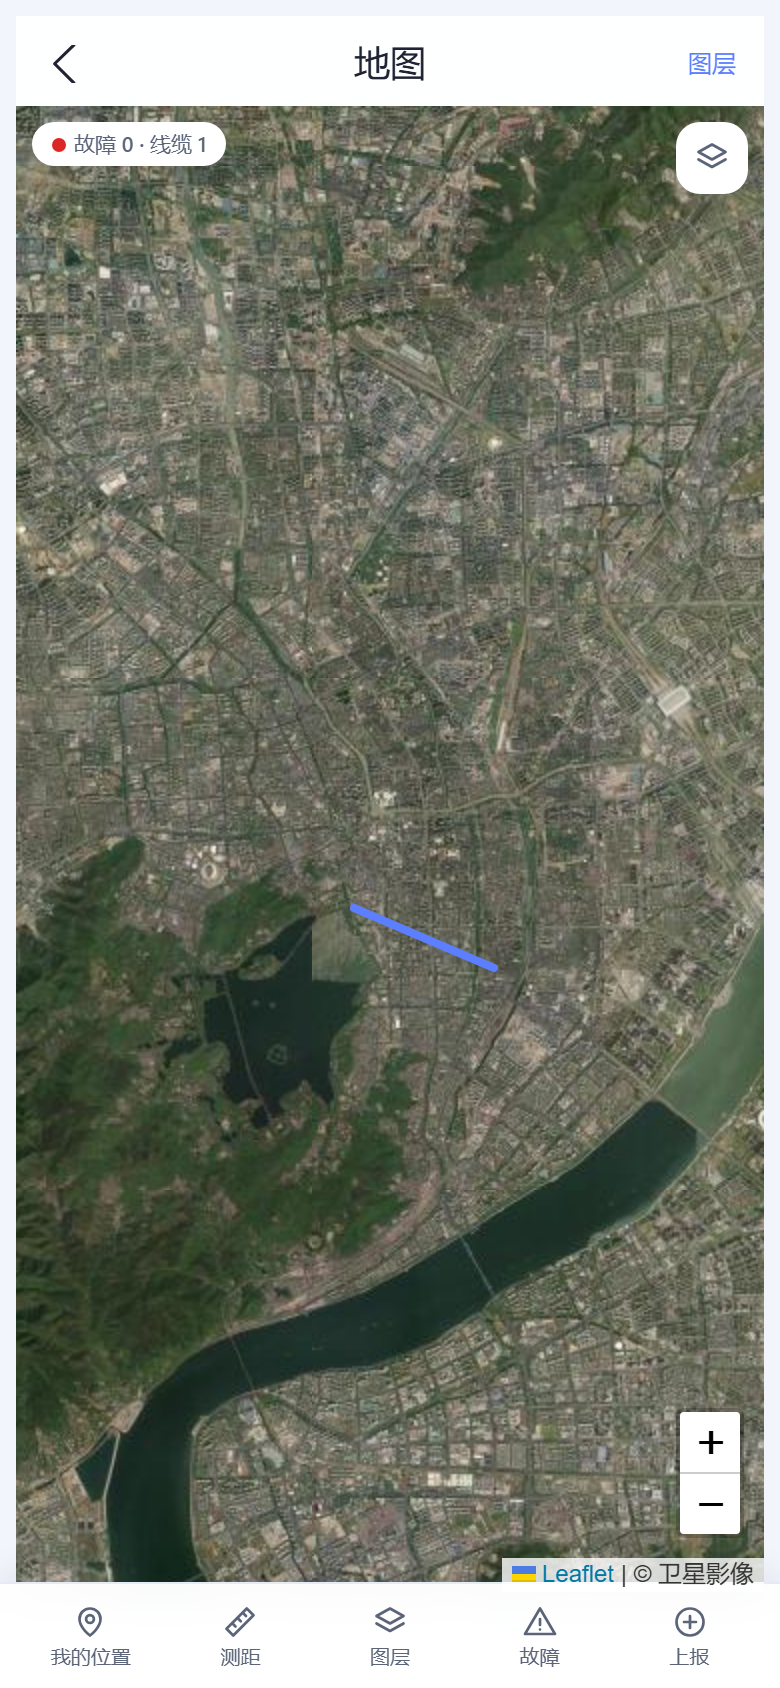
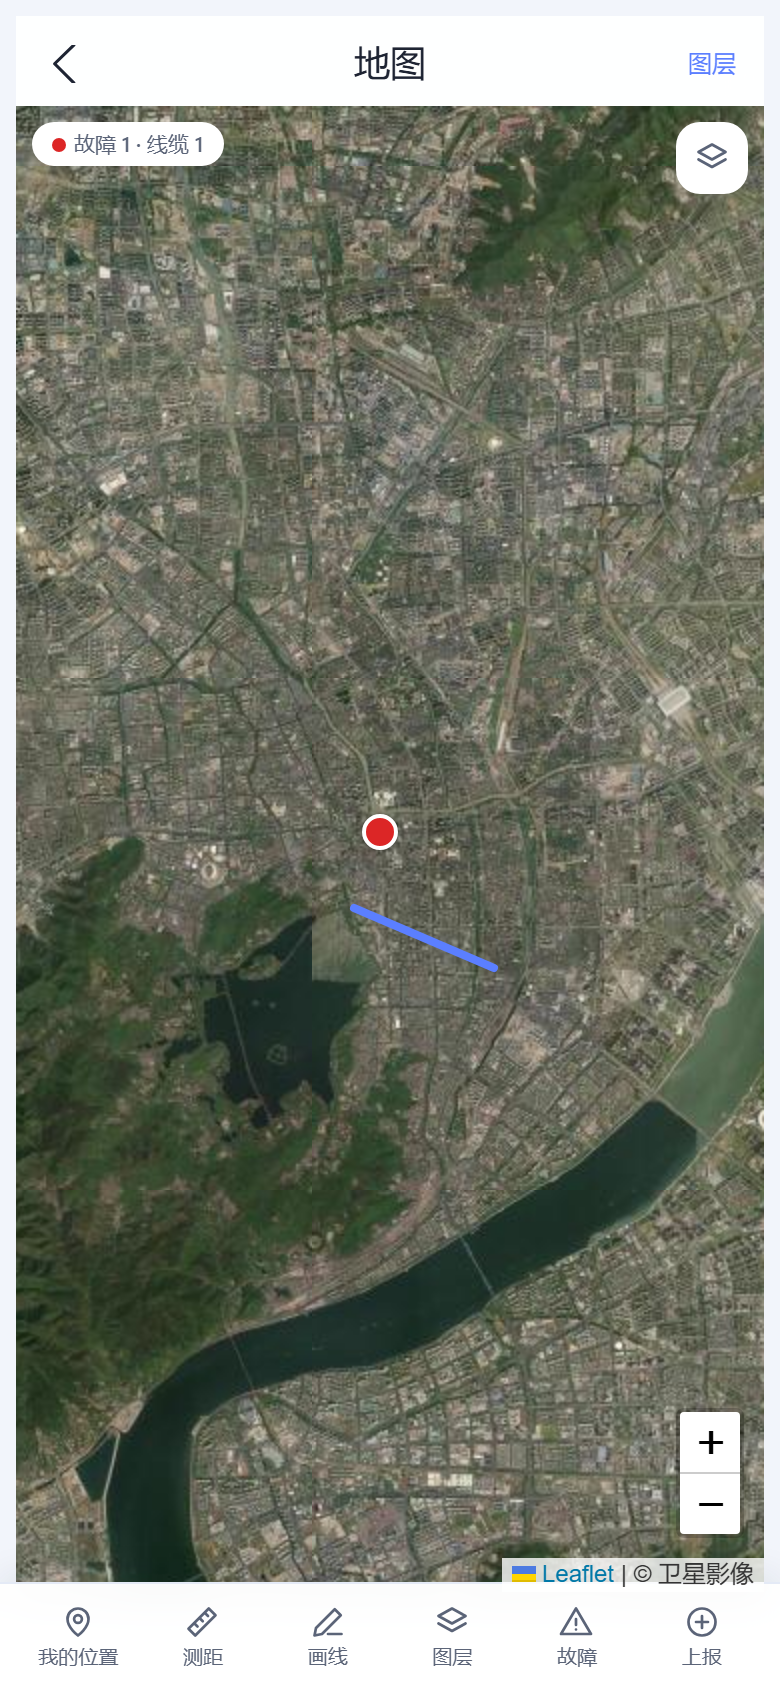
fix(map-mobile): 地图交互修复批——IP降级静默/上报选点落针回填/画线测量/Picker无反应/定位飞行17级
①去掉「浏览器定位不可用，已使用 IP 粗略定位」Toast（GPS→IP 静默降级）；
②上报故障选点重做：先收起弹层再取点（原遮罩挡地图根本点不了），点击落红色
大头针并自动回到上报面板显示已选坐标；导航「选起点」同流程（绿色针）；
③新增「画线」工具栏键：逐点成线+顶点圆点，实时总长（haversine），
撤销/清空/完成操作条，临时测量线不落库；
④测距「选择线缆」与导航「选择故障点」点击无反应根因：antd-mobile v5 Picker
不向子元素注入点击事件，补 render-prop actions.open() 并回显 value；
⑤「我的位置」setView 强跳层级改为 panTo 保持当前 zoom；
⑥故障管理「定位」与测距结果 flyTo(点, 17)。

验证：typecheck 零错误 + build 成功 + CDP 实拍六键工具栏渲染正常。

diff --git a/frontend/apps/mobile/src/modules/map/Map.tsx b/frontend/apps/mobile/src/modules/map/Map.tsx
@@ -59,6 +59,24 @@ const myLocationIcon = L.divIcon({
     "</div>",
   iconSize: [22, 22], iconAnchor: [11, 11],
 });
+/** 上报取点：红色大头针（地图选中的待上报位置）。 */
+const pickIcon = L.divIcon({
+  className: "wlt-m",
+  html: '<div style="width:16px;height:16px;background:#DC2626;border:2px solid #fff;border-radius:50% 50% 50% 0;transform:rotate(-45deg);box-shadow:0 1px 4px rgba(0,0,0,.35)"></div>',
+  iconSize: [16, 16], iconAnchor: [8, 15],
+});
+/** 导航起点：绿色大头针（与桌面端「选起点」绿色标记一致）。 */
+const startIcon = L.divIcon({
+  className: "wlt-m",
+  html: '<div style="width:16px;height:16px;background:#22C55E;border:2px solid #fff;border-radius:50% 50% 50% 0;transform:rotate(-45deg);box-shadow:0 1px 4px rgba(0,0,0,.35)"></div>',
+  iconSize: [16, 16], iconAnchor: [8, 15],
+});
+/** 画线顶点：琥珀小圆点。 */
+const vertexIcon = L.divIcon({
+  className: "wlt-m",
+  html: '<div style="width:10px;height:10px;border-radius:50%;background:#F59E0B;border:2px solid #fff;box-shadow:0 1px 3px rgba(0,0,0,.35)"></div>',
+  iconSize: [10, 10], iconAnchor: [5, 5],
+});
 
 /** 显示坐标系：手机端底图固定经后端代理（WGS84 源）→ 默认 GCJ-02 加密显示（与桌面端一致）。 */
 const DISPLAY_SPACE = resolveDisplaySpace("wgs84", null);
@@ -95,10 +113,27 @@ function disp([lat, lng]: [number, number]): [number, number] {
   return [dlat, dlng];
 }
 
-type PanelKey = "report" | "faults" | "measure" | "nav" | "layers" | null;
+/** 两 WGS84 坐标间球面距离（米，haversine）——画线测长用。 */
+function distMeters(a: [number, number], b: [number, number]): number {
+  const R = 6371000;
+  const dLat = ((b[0] - a[0]) * Math.PI) / 180;
+  const dLng = ((b[1] - a[1]) * Math.PI) / 180;
+  const la1 = (a[0] * Math.PI) / 180;
+  const la2 = (b[0] * Math.PI) / 180;
+  const h = Math.sin(dLat / 2) ** 2 + Math.cos(la1) * Math.cos(la2) * Math.sin(dLng / 2) ** 2;
+  return 2 * R * Math.asin(Math.sqrt(h));
+}
 
-/** 工具栏五键（OP Toolbar：我的位置/测距/图层/故障/上报）。location 为即时动作非面板。 */
-const TOOLS: { key: PanelKey | "location"; label: string; icon: React.ReactNode }[] = [
+/** 距离展示：<1km 显示米，≥1km 显示公里。 */
+function fmtLen(m: number): string {
+  return m >= 1000 ? `${(m / 1000).toFixed(2)} km` : `${Math.round(m)} m`;
+}
+
+type PanelKey = "report" | "faults" | "measure" | "nav" | "layers" | null;
+type MapMode = "none" | "fault" | "navStart" | "draw";
+
+/** 工具栏六键（位置/测距/画线/图层/故障/上报）。location 为即时动作；draw 进入画线取点模式。 */
+const TOOLS: { key: PanelKey | "location" | "draw"; label: string; icon: React.ReactNode }[] = [
   {
     key: "location",
     label: "我的位置",
@@ -116,6 +151,16 @@ const TOOLS: { key: PanelKey | "location"; label: string; icon: React.ReactNode 
       <>
         <path d="M3 16.5L16.5 3 21 7.5 7.5 21z" />
         <path d="M7 13l2 2M10.5 9.5l2 2M14 6l2 2" />
+      </>
+    ),
+  },
+  {
+    key: "draw",
+    label: "画线",
+    icon: (
+      <>
+        <path d="M12 20h9" />
+        <path d="M16.5 3.5l4 4L8 20l-5 1 1-5z" />
       </>
     ),
   },
@@ -161,7 +206,9 @@ export function MobileMapPage() {
   const [layers, setLayers] = useState({ cables: true, faults: true, devices: true });
 
   const [pick, setPick] = useState<{ lat: number; lng: number } | null>(null);
-  const [mode, setMode] = useState<"none" | "fault" | "navStart">("none");
+  const [mode, setMode] = useState<MapMode>("none");
+  // 画线（临时测量线）：逐点落针成线，实时显示总长；仅前端展示，不落库
+  const [draftPts, setDraftPts] = useState<[number, number][]>([]);
   const [reporting, setReporting] = useState(false);
   const [sev, setSev] = useState(1);
   const [desc, setDesc] = useState("");
@@ -204,13 +251,13 @@ export function MobileMapPage() {
   }, []);
   useEffect(() => { void load(); }, [load]);
 
-  /** 「我的位置」：定位降级链（GPS→IP 兜底）+ 平移地图到当前点。 */
+  /** 「我的位置」：定位降级链（GPS→IP 兜底，静默降级不弹提示）+ 平移地图到当前点。
+   * 只 pan 不动 zoom（保持用户当前缩放级别，避免猛跳层级）。 */
   const locateMe = async () => {
     try {
       const first = await getCurrentPositionWithFallback();
-      if (first.source === "ip") Toast.show("浏览器定位不可用，已使用 IP 粗略定位");
       setMyPos([first.lat, first.lng]);
-      mapRef.current?.setView(disp([first.lat, first.lng]), Math.max(mapRef.current?.getZoom() ?? 12, 15));
+      mapRef.current?.panTo(disp([first.lat, first.lng]));
     } catch {
       Toast.show("定位失败，请检查定位权限");
     }
@@ -225,7 +272,7 @@ export function MobileMapPage() {
 
   const startNav = async () => {
     if (!selFaultId) { Toast.show("请先选择故障点"); return; }
-    // 初始定位走降级链（浏览器 GPS → IP 兜底）：HTTP 内网 / 无 Geolocation API 的手机浏览器也可定位
+    // 初始定位走降级链（浏览器 GPS → IP 兜底，静默降级不弹提示）
     let first;
     try {
       first = await getCurrentPositionWithFallback();
@@ -235,7 +282,6 @@ export function MobileMapPage() {
       setMode("navStart");
       return;
     }
-    if (first.source === "ip") Toast.show("浏览器定位不可用，已使用 IP 粗略定位");
     setNavStart([first.lat, first.lng]);
     setMyPos([first.lat, first.lng]);
     setNavigating(true);
@@ -315,6 +361,8 @@ export function MobileMapPage() {
       const r = await cableApi.measure({ cable_id: selCableId, distance: Number(distance) });
       setMeasureResult(r);
       setHighlight([r.lat, r.lng]);
+      // 定位点飞行至 17 级（与故障定位一致，长线缆远端也能看清落点）
+      mapRef.current?.flyTo(disp([r.lat, r.lng]), 17);
     } catch (e) {
       Toast.show(e instanceof Error ? e.message : "测距失败");
     }
@@ -353,9 +401,10 @@ export function MobileMapPage() {
           <ZoomControl position="bottomright" />
           <TileLayer url={mapApi.tileUrl("esri", "{z}", "{x}", "{y}")} maxZoom={19} attribution="© 卫星影像" />
           <ClickCatcher onPick={(lat, lng) => {
-            if (mode === "fault") { setPick({ lat, lng }); setMode("none"); }
-            else if (mode === "navStart") { setNavStart([lat, lng]); setMode("none"); }
-            else setPick({ lat, lng });
+            // 取点模式：选完落针并自动回到对应面板确认；画线模式逐点追加；普通点击不落点
+            if (mode === "fault") { setPick({ lat, lng }); setMode("none"); setPanel("report"); }
+            else if (mode === "navStart") { setNavStart([lat, lng]); setMode("none"); setPanel("nav"); }
+            else if (mode === "draw") { setDraftPts((pts) => [...pts, [lat, lng]]); }
           }} />
           {layers.cables && cables.filter((c) => c.geometry).map((c) => (
             <Polyline key={c.id} positions={(c.geometry!.coordinates as [number, number][]).map(([lng, lat]) => disp([lat, lng]))}
@@ -365,6 +414,16 @@ export function MobileMapPage() {
           {layers.devices && devices.map((d) => <Marker key={`d${d.id}`} position={disp([d.lat!, d.lng!])} icon={deviceIcon} />)}
           {myPos && <Marker position={disp(myPos)} icon={myLocationIcon} />}
           {highlight && <Marker position={disp(highlight)} icon={navIcon} />}
+          {/* 上报取点 / 导航起点：地图上可见的落针（选点反馈） */}
+          {pick && <Marker position={disp([pick.lat, pick.lng])} icon={pickIcon} />}
+          {navStart && <Marker position={disp(navStart)} icon={startIcon} />}
+          {/* 画线：琥珀折线 + 顶点圆点（临时测量线） */}
+          {draftPts.length > 0 && (
+            <>
+              <Polyline positions={draftPts.map((p) => disp(p))} pathOptions={{ color: "#F59E0B", weight: 4 }} />
+              {draftPts.map((p, i) => <Marker key={`v${i}`} position={disp(p)} icon={vertexIcon} />)}
+            </>
+          )}
           {navPath && navPath.length > 1 && (
             <Polyline positions={navPath.map((p) => disp(p))} pathOptions={{ color: "#EF4444", weight: 5, dashArray: "8 6" }} />
           )}
@@ -398,27 +457,57 @@ export function MobileMapPage() {
           </svg>
         </div>
 
+        {/* 取点模式提示条（弹层已收起，地图可点；选完自动回到对应面板） */}
         {mode === "fault" && <div style={{ position: "absolute", top: 52, left: 8, background: "#fff", padding: "4px 10px", borderRadius: 8, fontSize: 12, zIndex: 1000, boxShadow: "0 2px 10px rgba(30,36,51,.12)" }}>请点击地图选择故障位置</div>}
+        {mode === "navStart" && <div style={{ position: "absolute", top: 52, left: 8, background: "#fff", padding: "4px 10px", borderRadius: 8, fontSize: 12, zIndex: 1000, boxShadow: "0 2px 10px rgba(30,36,51,.12)" }}>请点击地图选择导航起点</div>}
         {navInfo && <div style={{ position: "absolute", bottom: 12, left: 8, right: 8, background: "#fff", padding: 8, borderRadius: 12, fontSize: 14, zIndex: 1000, textAlign: "center", boxShadow: "0 2px 10px rgba(30,36,51,.12)" }}>{navInfo}</div>}
       </div>
 
-      {/* 底部五键工具栏（OP Toolbar rgba(255,255,255,.95)；.wlt-fixed-bar 宽屏限宽居中；
+      {/* 画线操作条（画线中或已画点时显示，悬于底部工具栏上方；随 .wlt-fixed-bar 宽屏限宽居中） */}
+      {(mode === "draw" || draftPts.length > 0) && (() => {
+        const total = draftPts.slice(1).reduce((s, p, i) => s + distMeters(draftPts[i], p), 0);
+        const miniBtn: React.CSSProperties = { height: 30, padding: "0 12px", borderRadius: 9, border: "1px solid #CBD6EC", background: "#fff", color: "#3B5BDB", fontSize: 12, cursor: "pointer" };
+        return (
+          <div className="wlt-fixed-bar" style={{ bottom: "calc(50px + env(safe-area-inset-bottom))", justifyContent: "space-between", padding: "8px 12px", zIndex: 899 }}>
+            <span style={{ fontSize: 12, fontWeight: mode === "draw" ? 600 : 400, color: mode === "draw" ? "#B45309" : "#5B6478" }}>
+              {mode === "draw"
+                ? draftPts.length > 0
+                  ? `画线中：${draftPts.length} 点 · ${fmtLen(total)}`
+                  : "画线：点击地图依次加点"
+                : `画线：${draftPts.length} 点 · 总长 ${fmtLen(total)}`}
+            </span>
+            <div style={{ display: "flex", gap: 8 }}>
+              <button style={{ ...miniBtn, opacity: draftPts.length ? 1 : 0.45 }} disabled={!draftPts.length}
+                onClick={() => setDraftPts((pts) => pts.slice(0, -1))}>撤销</button>
+              <button style={{ ...miniBtn, opacity: draftPts.length ? 1 : 0.45 }} disabled={!draftPts.length}
+                onClick={() => setDraftPts([])}>清空</button>
+              {mode === "draw" && (
+                <button style={{ ...miniBtn, border: "none", background: "#5B7FFF", color: "#fff", fontWeight: 600 }}
+                  onClick={() => setMode("none")}>完成</button>
+              )}
+            </div>
+          </div>
+        );
+      })()}
+
+      {/* 底部六键工具栏（位置/测距/画线/图层/故障/上报；.wlt-fixed-bar 宽屏限宽居中；
           zIndex 低于 Popup，避免遮挡呼出的功能界面） */}
       <div className="wlt-fixed-bar" style={{ justifyContent: "space-around", padding: "6px 8px", zIndex: 900 }}>
         {TOOLS.map((t) => {
-          const active = t.key !== "location" && panel === t.key;
+          const active = (t.key !== "location" && panel === t.key) || (t.key === "draw" && mode === "draw");
           return (
             <div
               key={t.key}
               onClick={() => {
                 if (t.key === "location") void locateMe();
+                else if (t.key === "draw") { setPanel(null); setMode((m) => (m === "draw" ? "none" : "draw")); }
                 else openPanel(t.key as Exclude<PanelKey, null>);
               }}
               style={{
                 display: "flex", flexDirection: "column", alignItems: "center", gap: 2,
                 padding: "4px 0", cursor: "pointer",
                 color: active ? "#3B5BDB" : "#5B6478",
-                minWidth: 52,
+                minWidth: 48,
               }}
             >
               <svg viewBox="0 0 24 24" width={18} height={18} fill="none"
@@ -468,9 +557,14 @@ export function MobileMapPage() {
             <span style={{ fontSize: 13, fontWeight: 700, color: "#1E2433" }}>上报故障</span>
             <span style={{ color: "#8A93A8", fontSize: 12 }} onClick={() => setPanel(null)}>收起 ×</span>
           </div>
-          {pick && <div style={{ fontSize: 12, color: "#8A93A8", marginBottom: 6 }}>位置：{pick.lat.toFixed(6)}, {pick.lng.toFixed(6)}</div>}
-          <Button block size="small" fill="outline" color="danger" onClick={() => setMode(mode === "fault" ? "none" : "fault")} style={{ marginBottom: 8, borderColor: "#CBD6EC", color: "#DC2626" }}>
-            {mode === "fault" ? "点击地图取点中…（再点取消）" : (pick ? "重新选择位置" : "在地图上选择位置")}
+          {pick && (
+            <div style={{ display: "inline-flex", alignItems: "center", gap: 6, background: "#FDEBEC", borderRadius: 8, padding: "4px 10px", marginBottom: 8 }}>
+              <span style={{ width: 7, height: 7, borderRadius: 4, background: "#DC2626" }} />
+              <span style={{ fontSize: 11.5, color: "#DC2626" }}>已选位置 {pick.lat.toFixed(5)}, {pick.lng.toFixed(5)}</span>
+            </div>
+          )}
+          <Button block size="small" fill="outline" color="danger" onClick={() => { setPanel(null); setMode("fault"); }} style={{ marginBottom: 8, borderColor: "#CBD6EC", color: "#DC2626" }}>
+            {pick ? "重新选择位置（当前弹层收起，点击地图取点）" : "在地图上选择位置"}
           </Button>
           <Selector options={[{ label: "低", value: 1 }, { label: "中", value: 2 }, { label: "高", value: 3 }]} value={[sev]} onChange={(v) => setSev(v[0] ?? 1)} style={{ marginBottom: 8, "--adm-color-primary": "#5B7FFF" } as React.CSSProperties} />
           <TextArea placeholder="故障描述（可选）" value={desc} onChange={setDesc} rows={2} maxLength={500} style={{ marginBottom: 8, "--background-color": "#F6F8FE" } as React.CSSProperties} />
@@ -498,7 +592,7 @@ export function MobileMapPage() {
                 </div>
                 <div style={{ fontSize: 11, color: "#8A93A8" }}>{f.lat.toFixed(5)}, {f.lng.toFixed(5)}　{FAULT_STATUS[f.status] ?? f.status}</div>
               </div>
-              <Button size="mini" color="primary" fill="outline" onClick={() => { setHighlight([f.lat, f.lng]); setPanel(null); }} style={{ color: "#3B5BDB", borderColor: "#CBD6EC" }}>定位</Button>
+              <Button size="mini" color="primary" fill="outline" onClick={() => { setHighlight([f.lat, f.lng]); setPanel(null); mapRef.current?.flyTo(disp([f.lat, f.lng]), 17); }} style={{ color: "#3B5BDB", borderColor: "#CBD6EC" }}>定位</Button>
               <Button size="mini" color="primary" fill="outline" onClick={() => navToFault(f)} style={{ color: "#3B5BDB", borderColor: "#CBD6EC" }}>导航</Button>
               <Button size="mini" color="danger" fill="outline" onClick={() => deleteFault(f)} style={{ color: "#DC2626", borderColor: "#CBD6EC" }}>删除</Button>
             </div>
@@ -515,11 +609,17 @@ export function MobileMapPage() {
             <span style={{ color: "#8A93A8", fontSize: 12 }} onClick={() => setPanel(null)}>收起 ×</span>
           </div>
           <div style={{ display: "flex", gap: 8 }}>
+            {/* antd-mobile v5 Picker 不向子元素注入点击事件：须经 render-prop 第二参 actions 开关 */}
             <Picker
               columns={[cables.filter((c) => c.status === 1).map((c) => ({ label: `${c.name}（${Math.round(c.total_length)}m）`, value: c.id }))]}
+              value={selCableId ? [selCableId] : undefined}
               onConfirm={(v) => setSelCableId(v[0] as number)}
             >
-              {(items) => <Button size="small" fill="outline" style={{ color: "#3B5BDB", borderColor: "#CBD6EC" }}>{items[0]?.label ?? "选择线缆"}</Button>}
+              {(items, actions) => (
+                <Button size="small" fill="outline" style={{ color: "#3B5BDB", borderColor: "#CBD6EC" }} onClick={() => actions.open()}>
+                  {items[0]?.label ?? "选择线缆"}
+                </Button>
+              )}
             </Picker>
             <Input placeholder="距离(m)" type="number" value={distance} onChange={setDistance} style={{ flex: 1 }} />
             <Button size="small" color="primary" onClick={doMeasure} style={{ background: "#5B7FFF", borderColor: "#5B7FFF" }}>定位</Button>
@@ -541,15 +641,20 @@ export function MobileMapPage() {
             <span style={{ color: "#8A93A8", fontSize: 12 }} onClick={() => setPanel(null)}>收起 ×</span>
           </div>
           <div style={{ display: "flex", gap: 8 }}>
+            {/* 同测距：Picker 需经 actions.open() 打开 */}
             <Picker
               columns={[faults.map((f) => ({ label: `#${f.id} ${f.fault_type || "故障"}（${f.description?.slice(0, 10) || ""}）`, value: f.id }))]}
               value={selFaultId ? [selFaultId] : undefined}
               onConfirm={(v) => setSelFaultId(v[0] as number)}
             >
-              {(items) => <Button size="small" fill="outline" style={{ color: "#3B5BDB", borderColor: "#CBD6EC" }}>{items[0]?.label ?? "选择故障点"}</Button>}
+              {(items, actions) => (
+                <Button size="small" fill="outline" style={{ color: "#3B5BDB", borderColor: "#CBD6EC" }} onClick={() => actions.open()}>
+                  {items[0]?.label ?? "选择故障点"}
+                </Button>
+              )}
             </Picker>
-            <Button size="small" fill="outline" onClick={() => setMode(mode === "navStart" ? "none" : "navStart")} style={{ color: "#3B5BDB", borderColor: "#CBD6EC" }}>
-              {mode === "navStart" ? "取点中…" : "选起点"}
+            <Button size="small" fill="outline" onClick={() => { setPanel(null); setMode("navStart"); }} style={{ color: "#3B5BDB", borderColor: "#CBD6EC" }}>
+              选起点
             </Button>
           </div>
           {navStart && <div style={{ fontSize: 12, color: "#8A93A8", marginTop: 6 }}>起点 {navStart[0].toFixed(6)}, {navStart[1].toFixed(6)}</div>}

diff --git a/AI开发文档/开发进度记录.md b/AI开发文档/开发进度记录.md
@@ -7,6 +7,19 @@
 > 其余历史设计文档已归档至 `历史文档/` 目录——**AI 助手无明确需求时不要加载历史文档**（内容可能过期）。
 
 
+## 手机端地图交互修复批：定位静默降级 / 上报选点落针 / 画线测量 / Picker 无反应 / 定位飞行 17 级（2026-08-26）
+
+- **需求（用户反馈）**：①「浏览器定位不可用，已使用 IP 粗略定位」提示不要显示；②上报故障「在地图上选择位置」选完无标记、流程不可用；③新增画线功能；④测距「选择线缆」点击无反应；⑤「我的位置」会猛跳缩放级别；⑥故障管理点「定位」应飞到 17 级。
+- **交付**（均在 `modules/map/Map.tsx`）：
+  - **IP 降级静默**：locateMe/startNav 去掉 IP 兜底 Toast（定位失败仍提示权限问题）。
+  - **上报/导航选点重做**：原实现弹层遮罩挡住地图根本点不了、且 pick 无任何标记——现「在地图上选择位置」先收起弹层再进入取点模式（顶部提示条），点击落红色大头针并**自动回到上报面板**显示已选坐标胶囊；导航「选起点」同流程（绿色大头针，与桌面端一致）。
+  - **画线功能**：工具栏第六键「画线」（铅笔图标）——逐点点击追加顶点，琥珀折线+圆点实时渲染，操作条显示 点数/总长（haversine，<1km 米 ≥1km 公里），支持 撤销/清空/完成；完成后保留线与摘要直至清空；纯前端临时测量线不落库。
+  - **Picker 点击无反应根因**：antd-mobile v5 Picker 不向子元素注入点击事件，须经 render-prop 第二参 `actions` 开关——测距「选择线缆」与导航「选择故障点」两处补 `onClick={() => actions.open()}` 并传 `value` 回显。
+  - **我的位置只平移**：setView(强制≥15) → panTo 保持当前 zoom，不再跳级。
+  - **定位飞行 17 级**：故障管理行内「定位」与测距结果均 `flyTo(point, 17)`。
+- **验证**：typecheck 零错误 + build 成功；CDP 实拍地图页确认六键工具栏与标记渲染正常。
+- 提交：见 git log。
+
 ## 手机端登录页修复：Form.Item 注入被自定义容器吞掉导致无法登录（2026-08-26）
 
 - **问题（用户反馈）**：重构后的手机端登录页无法登录，且表单显示与 OP 设计不符（输入区出现列表边框容器 + 红色必填星号）。
